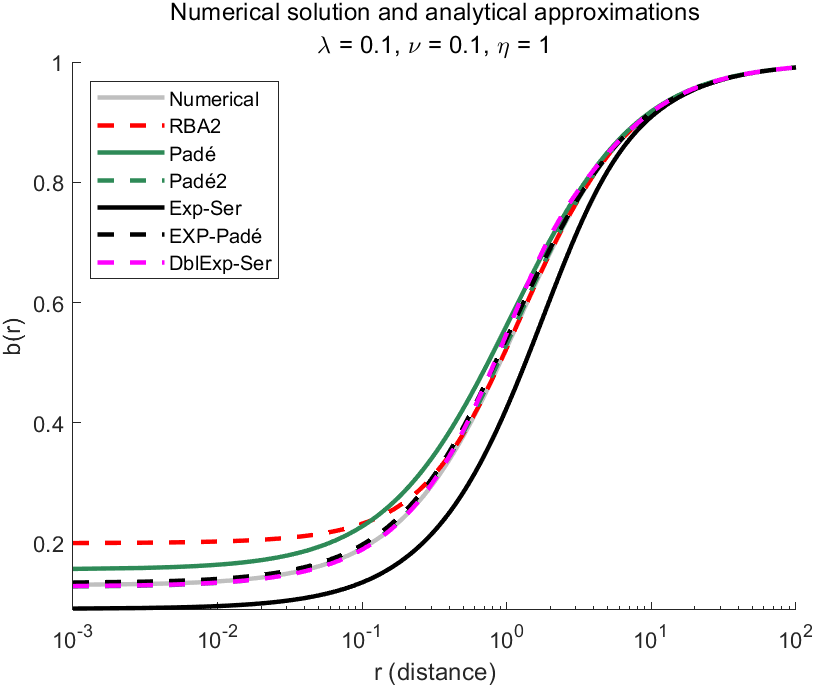
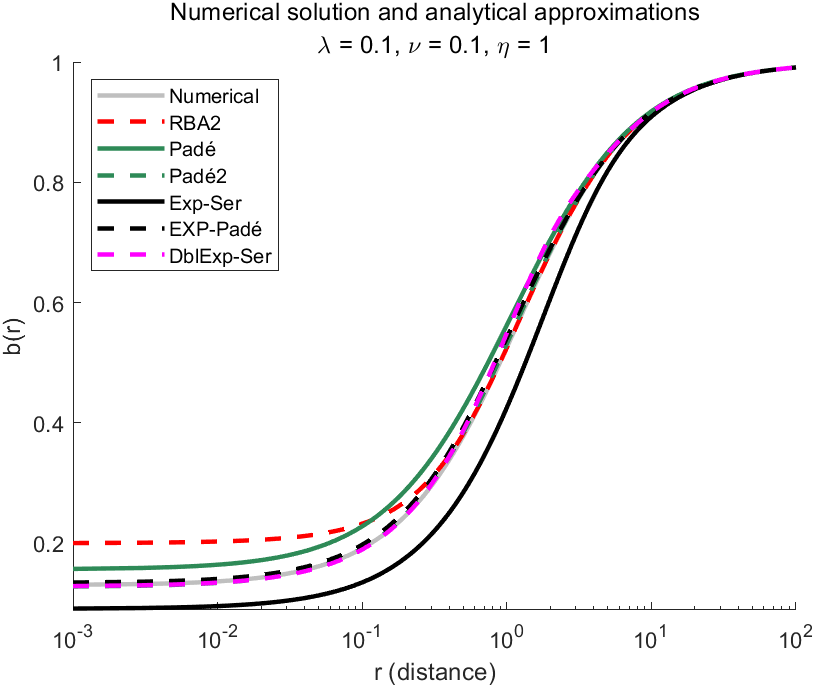
fix typo

Changed region(s): [[0.092, 0.1223, 0.3374, 0.3974]]

diff --git a/tests/Test.m b/tests/Test.m
@@ -65,25 +65,25 @@ err  = buffer.meanError(cNum, cNum, 'log');
 assert(numel(err) == numel(cols) && all(isfinite(err)));
 
 fprintf('ok\nTest: lambda-batch solver ... ');
-lambdaBatch = logspace(-3, 2, 5)';
-nuBatch     = logspace(-3, 2, 2)';
-gridBatch   = buffer.geometricGrid(1e-3, 1e2, 60);
+lambdaBatch = logspace(-3, 2, 100)';
+nuBatch     = logspace(-3, 2, 100)';
+gridBatch   = buffer.geometricGrid(1e-3, 1e2, 100);
 b0Batch = buffer.generateB0Grid(lambdaBatch, nuBatch, 1, ...
     'GridSize', 60, 'Tolerance', 1e-6, 'Verbose', false);
 bBatch = buffer.solveGeometricLambdaGrid( ...
     b0Batch, lambdaBatch, nuBatch, 1, gridBatch, ...
     'Tolerance', 1e-3, 'MaxIterations', 200, 'Verbose', false);
-assert(isequal(size(bBatch), [60, 5, 2]));
+assert(isequal(size(bBatch), [100, 100, 100]));
 assert(all(isfinite(bBatch), 'all'));
 F = buffer.residualGeometricLambda(bBatch(:, :, 1), gridBatch.r, ...
     gridBatch.hLeft, gridBatch.hRight, b0Batch(:, 1).', ...
     lambdaBatch, nuBatch(1), 1);
-assert(max(abs(F), [], 'all') < 1e-2);
+assert(max(abs(F), [], 'all') < 1e-4);
 
 approxBatch = buffer.approximationsGrid(gridBatch.r, lambdaBatch, nuBatch, 1, ...
     {'Pade2', 'RBA2', 'DblExpGlobal'}, ...
     'PadeRefine', true, 'PadeRefineMethod', 'newton', ...
     'PadeRealCoefficients', true);
-assert(isequal(size(approxBatch.pade2), [60, 5, 2]));
+assert(isequal(size(approxBatch.pade2), [100,100,100]));
 fprintf('ok\n');
 fprintf('Test: all checks passed.\n');

diff --git a/Figure4/figure4A.m b/Figure4/figure4A.m
@@ -44,14 +44,14 @@ errors = { ...
 
 c = buffer.palette();
 ax = buffer.plotErrors(nuValues, errors, ...
-    {'RBA2', 'Pad茅2', 'DblExp-Ser', 'ExpVar', 'ExpGlobal', ...
+    {'RBA2', 'Padé2', 'DblExp-Ser', 'ExpVar', 'ExpGlobal', ...
      'DblExp-Var', 'DblExp-Global'}, ...
     'Styles', {'--', '--', '--', '--', '-', ':.', '-'}, ...
     'Colors', {c.red, c.green, c.magenta, c.blue, c.blue, c.magenta, ...
                c.magenta}, ...
     'LineWidths', [2.5 2.5 2.5 2.5 2.5 2.5 1.5], ...
     'MarkMinimum', 3, ...
-    'Title', {'Error comparison with RBA2, Pad茅2, DblExp-Ser, ExpVar and', ...
+    'Title', {'Error comparison with RBA2, Padé2, DblExp-Ser, ExpVar and', ...
               'ExpGlobal, DblExp-Var, DblExp-Global'}, ...
     'Subtitle', '\lambda = 0.02,  \eta = 1');
 

diff --git a/Figure5/figure5B.m b/Figure5/figure5B.m
@@ -43,7 +43,7 @@ errors = { ...
 
 c = buffer.palette();
 ax = buffer.plotErrors(nuValues, errors, ...
-    {'RBA2', 'Pad茅2', 'Exp-Pade', 'Exp-Global', 'DblExp-Var', ...
+    {'RBA2', 'Padé2', 'Exp-Padé', 'Exp-Global', 'DblExp-Var', ...
      'DblExp-Global'}, ...
     'Styles', {'--', '--', '--.', '-', ':', '-'}, ...
     'Colors', {c.red, c.green, c.black, c.blue, c.magenta, c.magenta}, ...

diff --git a/Figure5/figure5C.m b/Figure5/figure5C.m
@@ -43,7 +43,7 @@ errors = { ...
 
 c = buffer.palette();
 ax = buffer.plotErrors(nuValues, errors, ...
-    {'RBA2', 'Pad茅2', 'Exp-Pade', 'Exp-Global', 'DblExp-Var', ...
+    {'RBA2', 'Padé2', 'Exp-Padé', 'Exp-Global', 'DblExp-Var', ...
      'DblExp-Global'}, ...
     'Styles', {'--', '--', '--.', '-', ':', '-'}, ...
     'Colors', {c.red, c.green, c.black, c.blue, c.magenta, c.magenta}, ...

diff --git a/Figure5/figure5A.m b/Figure5/figure5A.m
@@ -44,7 +44,7 @@ errors = { ...
 
 c = buffer.palette();
 ax = buffer.plotErrors(nuValues, errors, ...
-    {'RBA2', 'Pad茅2', 'Exp-Pade', 'Exp-Global', 'DblExp-Var', ...
+    {'RBA2', 'Padé2', 'Exp-Pade', 'Exp-Global', 'DblExp-Var', ...
      'DblExp-Global'}, ...
     'Styles', {'--', '--', '-.', '-', ':', '-'}, ...
     'Colors', {c.red, c.green, c.black, c.blue, c.magenta, c.magenta}, ...

diff --git a/original/Figure2/shooting_Fig2.m b/original/Figure2/shooting_Fig2.m
@@ -1,6 +1,10 @@
 clear; clc;
-
-lambda = 20.0;
+%%
+% Fig2_A: lambda = 0.02, eta = 1.0
+% Fig2_B: lambda =    2, eta = 1.0
+% Fig2_C: lambda = 20.0, eta = 1.0
+%%
+lambda = 0.02;
 eta = 1;
 N = 100;
 
@@ -31,4 +35,4 @@ for k = 2:N
     fprintf('nu = %.3e completed\n', nu);
 end
 
-save('b0_Fig2_C.mat', 'b0');
+save('b0_Fig2_A.mat', 'b0');

diff --git a/original/Figure3/shooting_Fig3.m b/original/Figure3/shooting_Fig3.m
@@ -1,5 +1,9 @@
 clear; clc;
-
+%%
+% Fig2_A: lambda = 0.1, nu = 0.1
+% Fig2_B: lambda = 0.1, nu = 10
+% Fig2_C: lambda = 1, nu = 10
+%%
 lambda = 1;
 nu = 10;
 eta = 1;

diff --git a/original/Figure1/simple_buffer_case_Fig1_C.m b/original/Figure1/simple_buffer_case_Fig1_C.m
@@ -74,7 +74,6 @@ for i = 1:N
     end
 end
 b = b_init;
-fprintf('max = %d, min=%d\n', max(b(:)),min(b(:)));
 
 tol = 1e-10;
 max_iter = 25;
